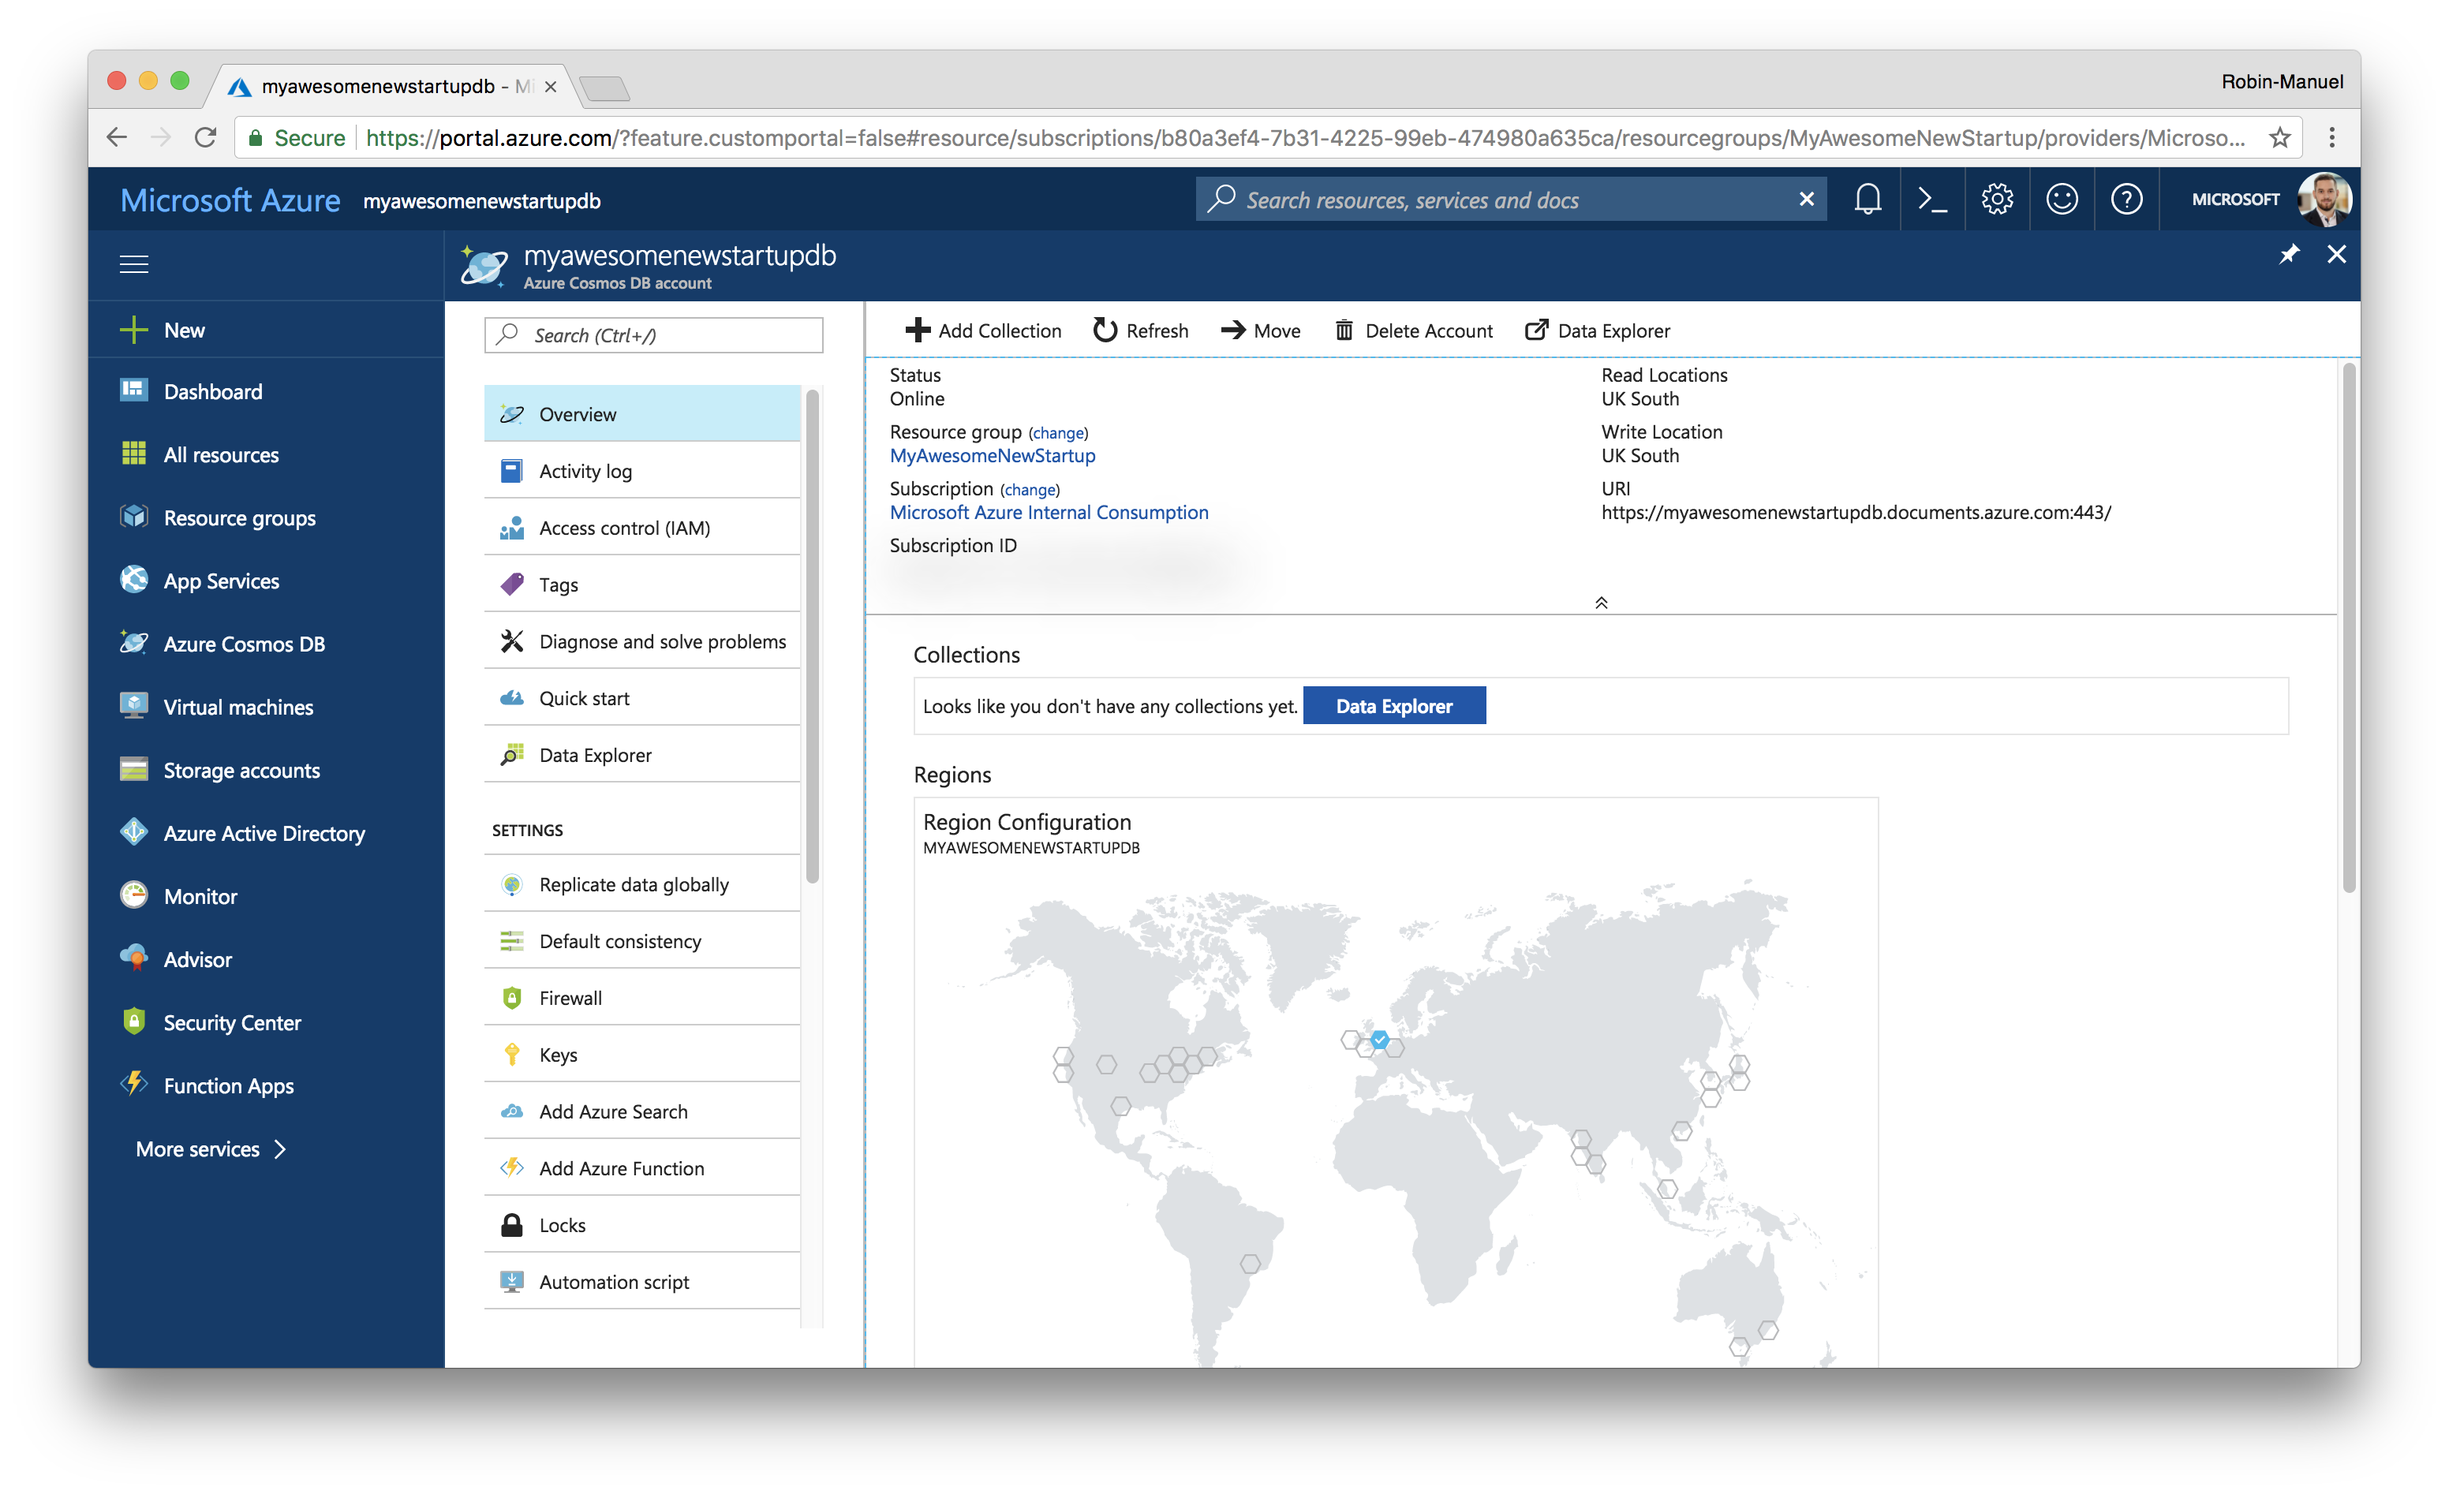
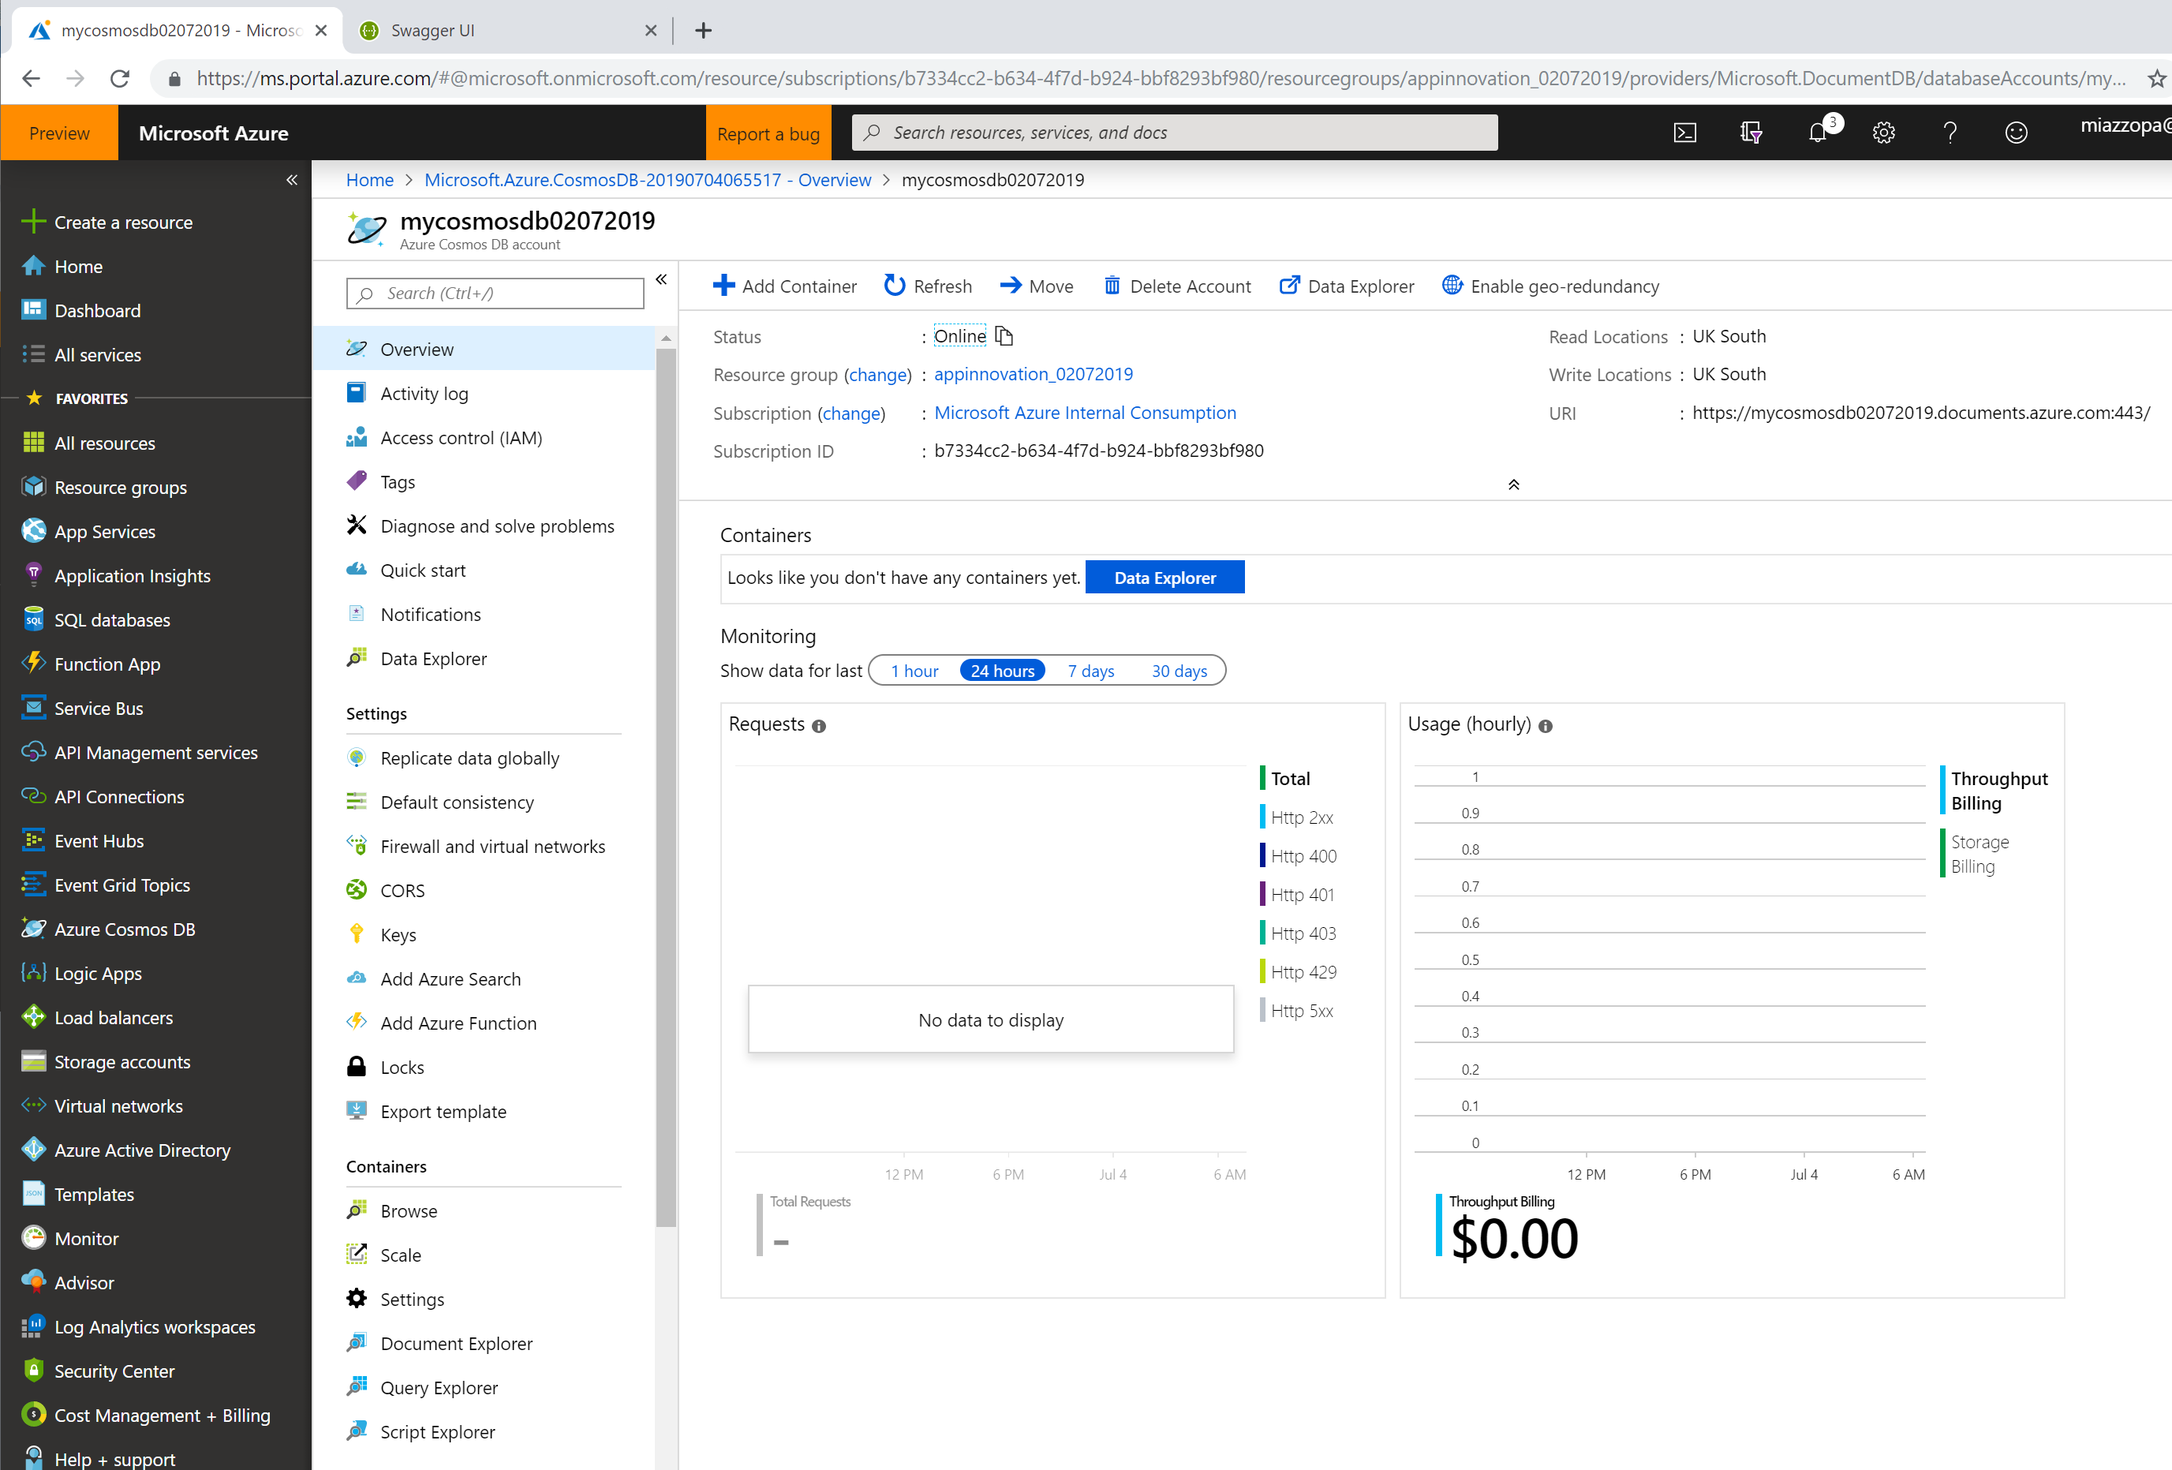
updates

diff --git a/Walkthrough Guide/05 Data Storage/README.md b/Walkthrough Guide/05 Data Storage/README.md
@@ -16,7 +16,7 @@ To create a new Cosmos DB instance in the [Azure Portal](https://portal.azure.co
 
 ![Add new Cosmos DB from the Azure Portal](Assets/AddNewCosmosDb2.png)
 
-Choose the following settings and hit the ***Review + Create*** button to start provisioning the Cosmos DB instance.  We will not be configuring the network or tags in this lab.
+Choose the following settings:
 
 - **Subscription:** Use same
 - **Resouce Group:** Use existing one we have been using for this lab
@@ -29,6 +29,8 @@ Choose the following settings and hit the ***Review + Create*** button to start 
 
 ![Add new Cosmos DB from the Azure Portal](Assets/Reviewandcreatecosdmosdb.png)
 
+Next hit the ***Review + Create*** button to validate your configurate and then hit ***Create*** to start provisioning the Cosmos DB instance.  We will not be configuring the network or tags in this lab.
+
 ### 1.2 Explore Cosmos DB
 
 After a few seconds, Azure should have created the database service and we can start exploring Cosmos DB by navigating to it in the Azure Portal.
@@ -37,15 +39,15 @@ After a few seconds, Azure should have created the database service and we can s
 
 #### 1.2.1 Scalability and Consistency
 
-As we can see from the ***Overview*** section, Azure Cosmos DB is all about scalability and availability. We get greeted by a map that shows us, which regions our data gets synchronized to and we can easily add and remove regions by selecting or deselecting them on the map or the ***Replicate data globally section*** in the side menu.
+As we can see from the ***Overview*** section, Azure Cosmos DB is all about scalability and availability. We get greeted by the monitoring tools in the overview section to be able to see the health for our database.  In the ***Replicate data globally section*** menu section, we are presented with a map that shows us which regions our data gets synchronized to and we can easily add and remove regions by selecting or deselecting them on the map.
 
 With scaling databases to multiple instances, *Consistency* immediately come to our minds. By default, Cosmos DB uses *Session consistency* but we can choose from five different [Consistency levels](https://docs.microsoft.com/en-us/azure/cosmos-db/consistency-levels) in the ***Default Consistency*** menu, if we feel the need to change that.
 
-> **Hint:** Even when selecting multiple regions for Azure Cosmos DB, the connection string will always stay the same. That's a very nice feature, which allows your backend to not care about the location of your database at all. Cosmos DB has its own traffic manager that will route your query to the fastest location autimatically.
+> **Hint:** Even when selecting multiple regions for Azure Cosmos DB, the connection string will always stay the same. That's a very nice feature, which allows your backend to not care about the location of your database at all. Cosmos DB has its own traffic manager that will route your query to the fastest location automatically.
 
 #### 1.2.2 Security Keys
 
-Like every other database, Azure Cosmos DB offers security through access control using Keys. Head over to the ***Keys*** section of the data base to check your keys for different access levels (read-write and read-only) and connection strings. We will need these information later, when we connect the Cosmos DB to the Web API.
+Like every other database, Azure Cosmos DB offers security through access control using Keys. Head over to the ***Keys*** section of the data base to check your keys for different access levels (read-write and read-only) and connection strings. We will need this information later, when we connect the Cosmos DB to the Web API.
 
 #### 1.2.3 Data Explorer
 
